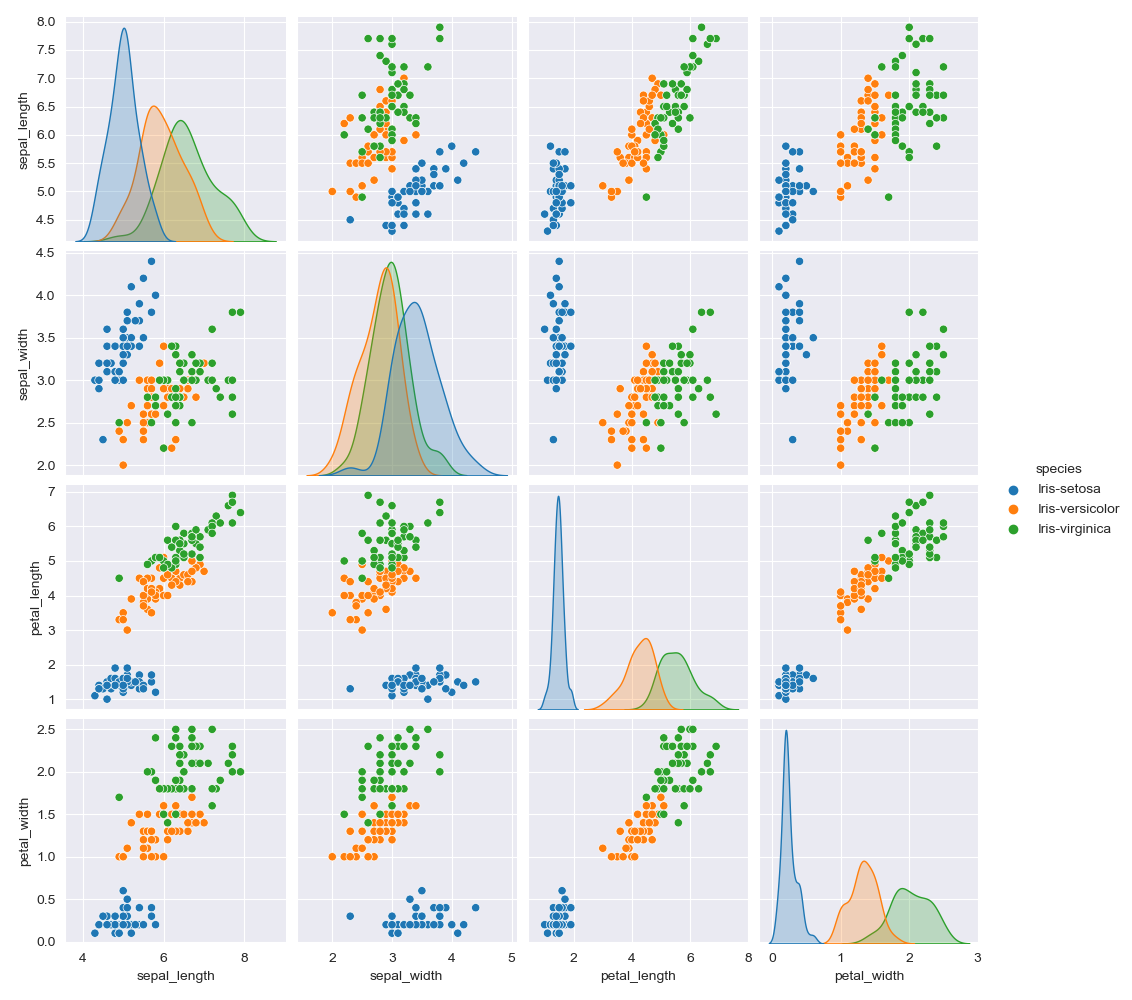
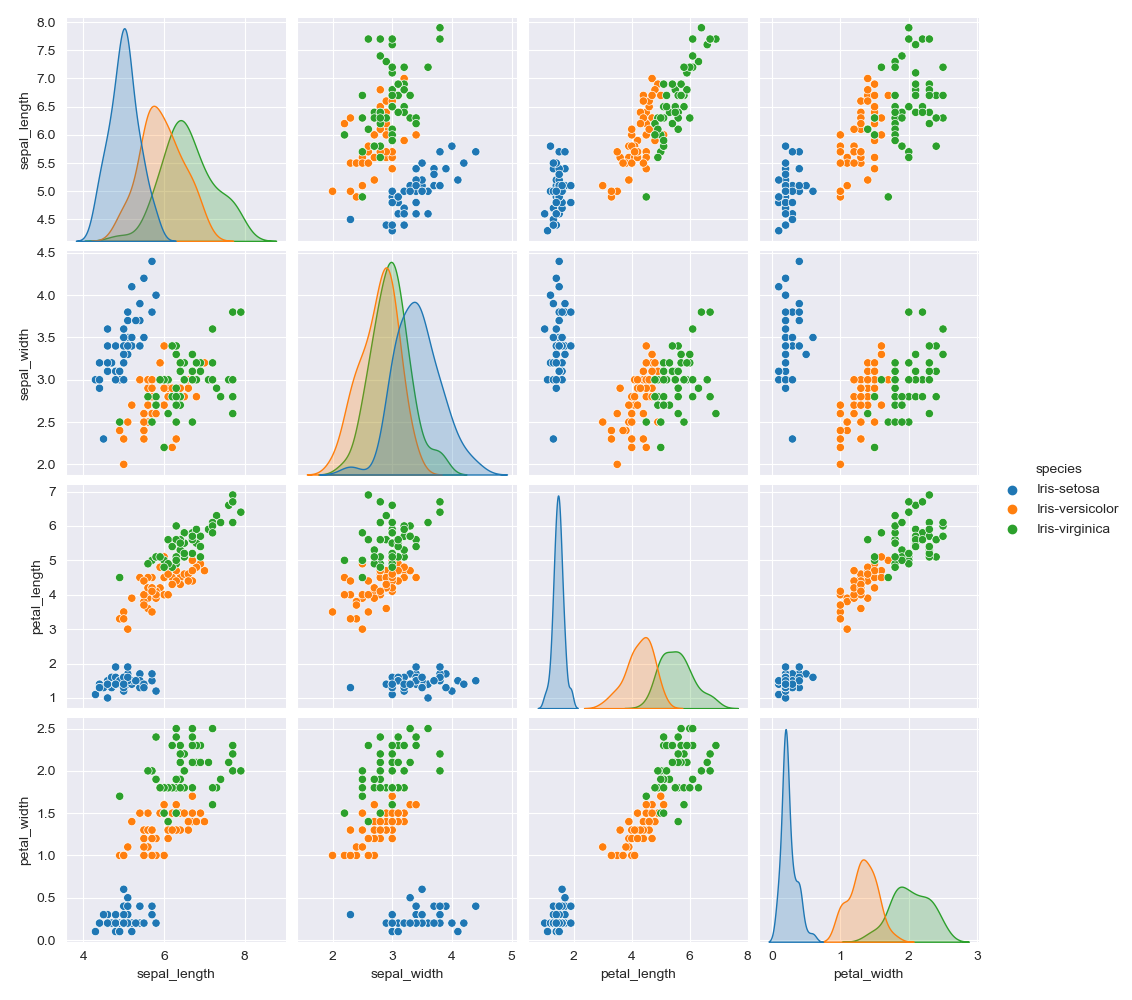
Colour pairplot by species

diff --git a/analysis.py b/analysis.py
@@ -38,7 +38,7 @@ for column, name in zip(columns, names):
 # all in one pairplot of histograms and scatterplots
 # https://seaborn.pydata.org/generated/seaborn.pairplot.html
 plt.figure(figsize=(12,8))
-sns.pairplot(iris[['sepal_length', 'sepal_width', 'petal_length', 'petal_width']])
+sns.pairplot(iris, hue='species')
 plt.savefig(chart_folder/'paired_scatterplot.png')
 plt.close()
 
